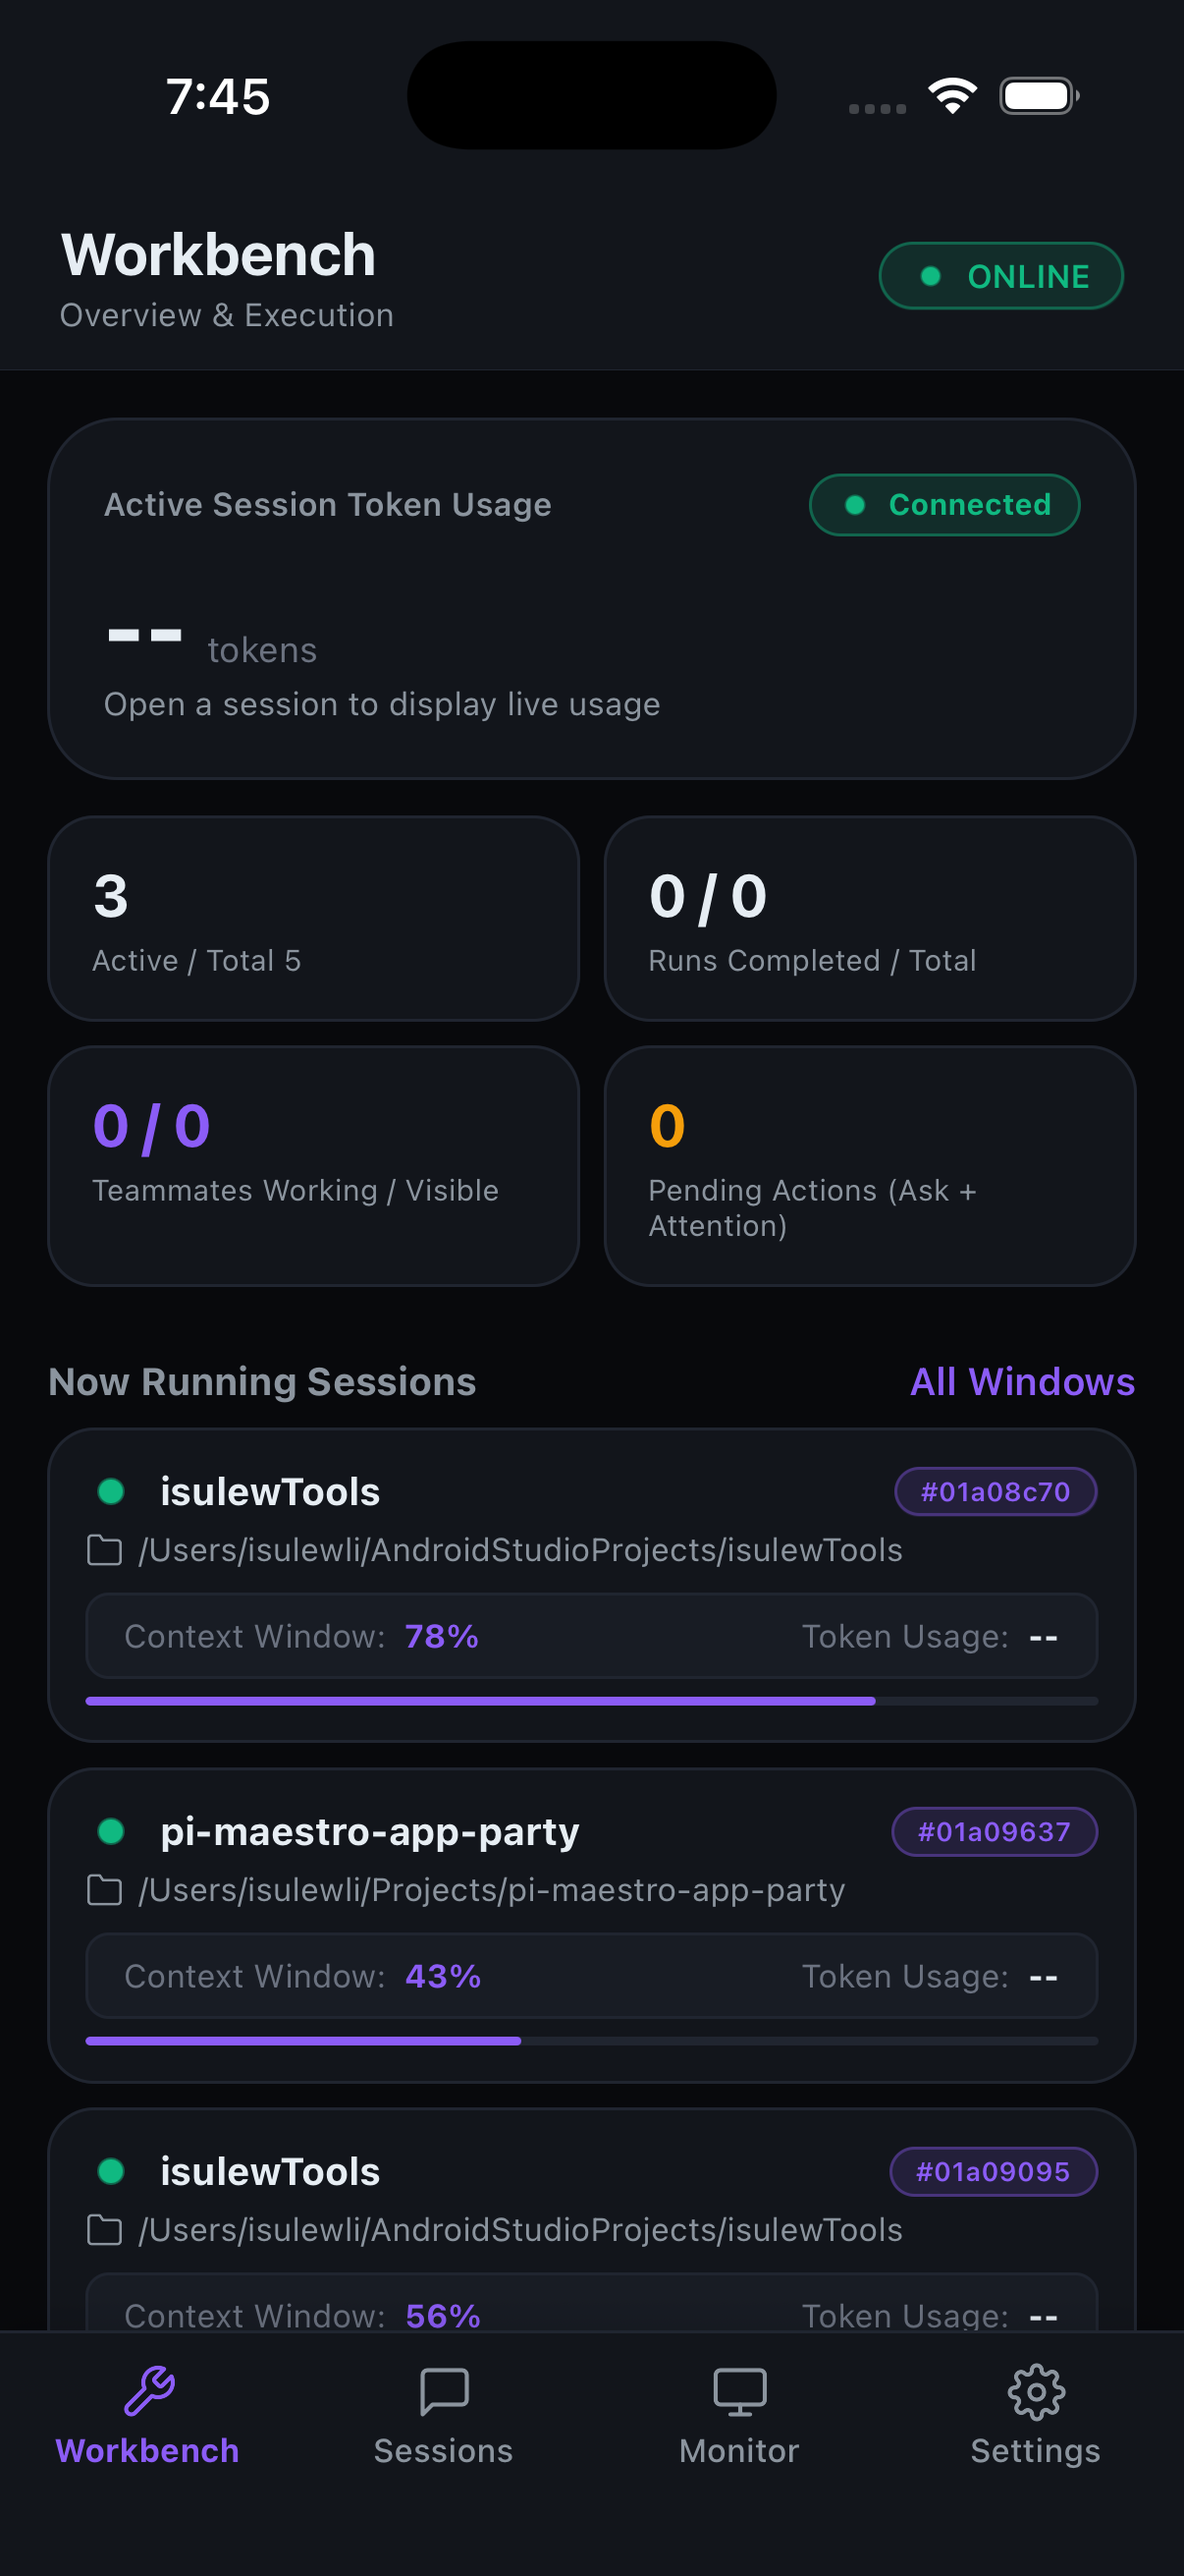
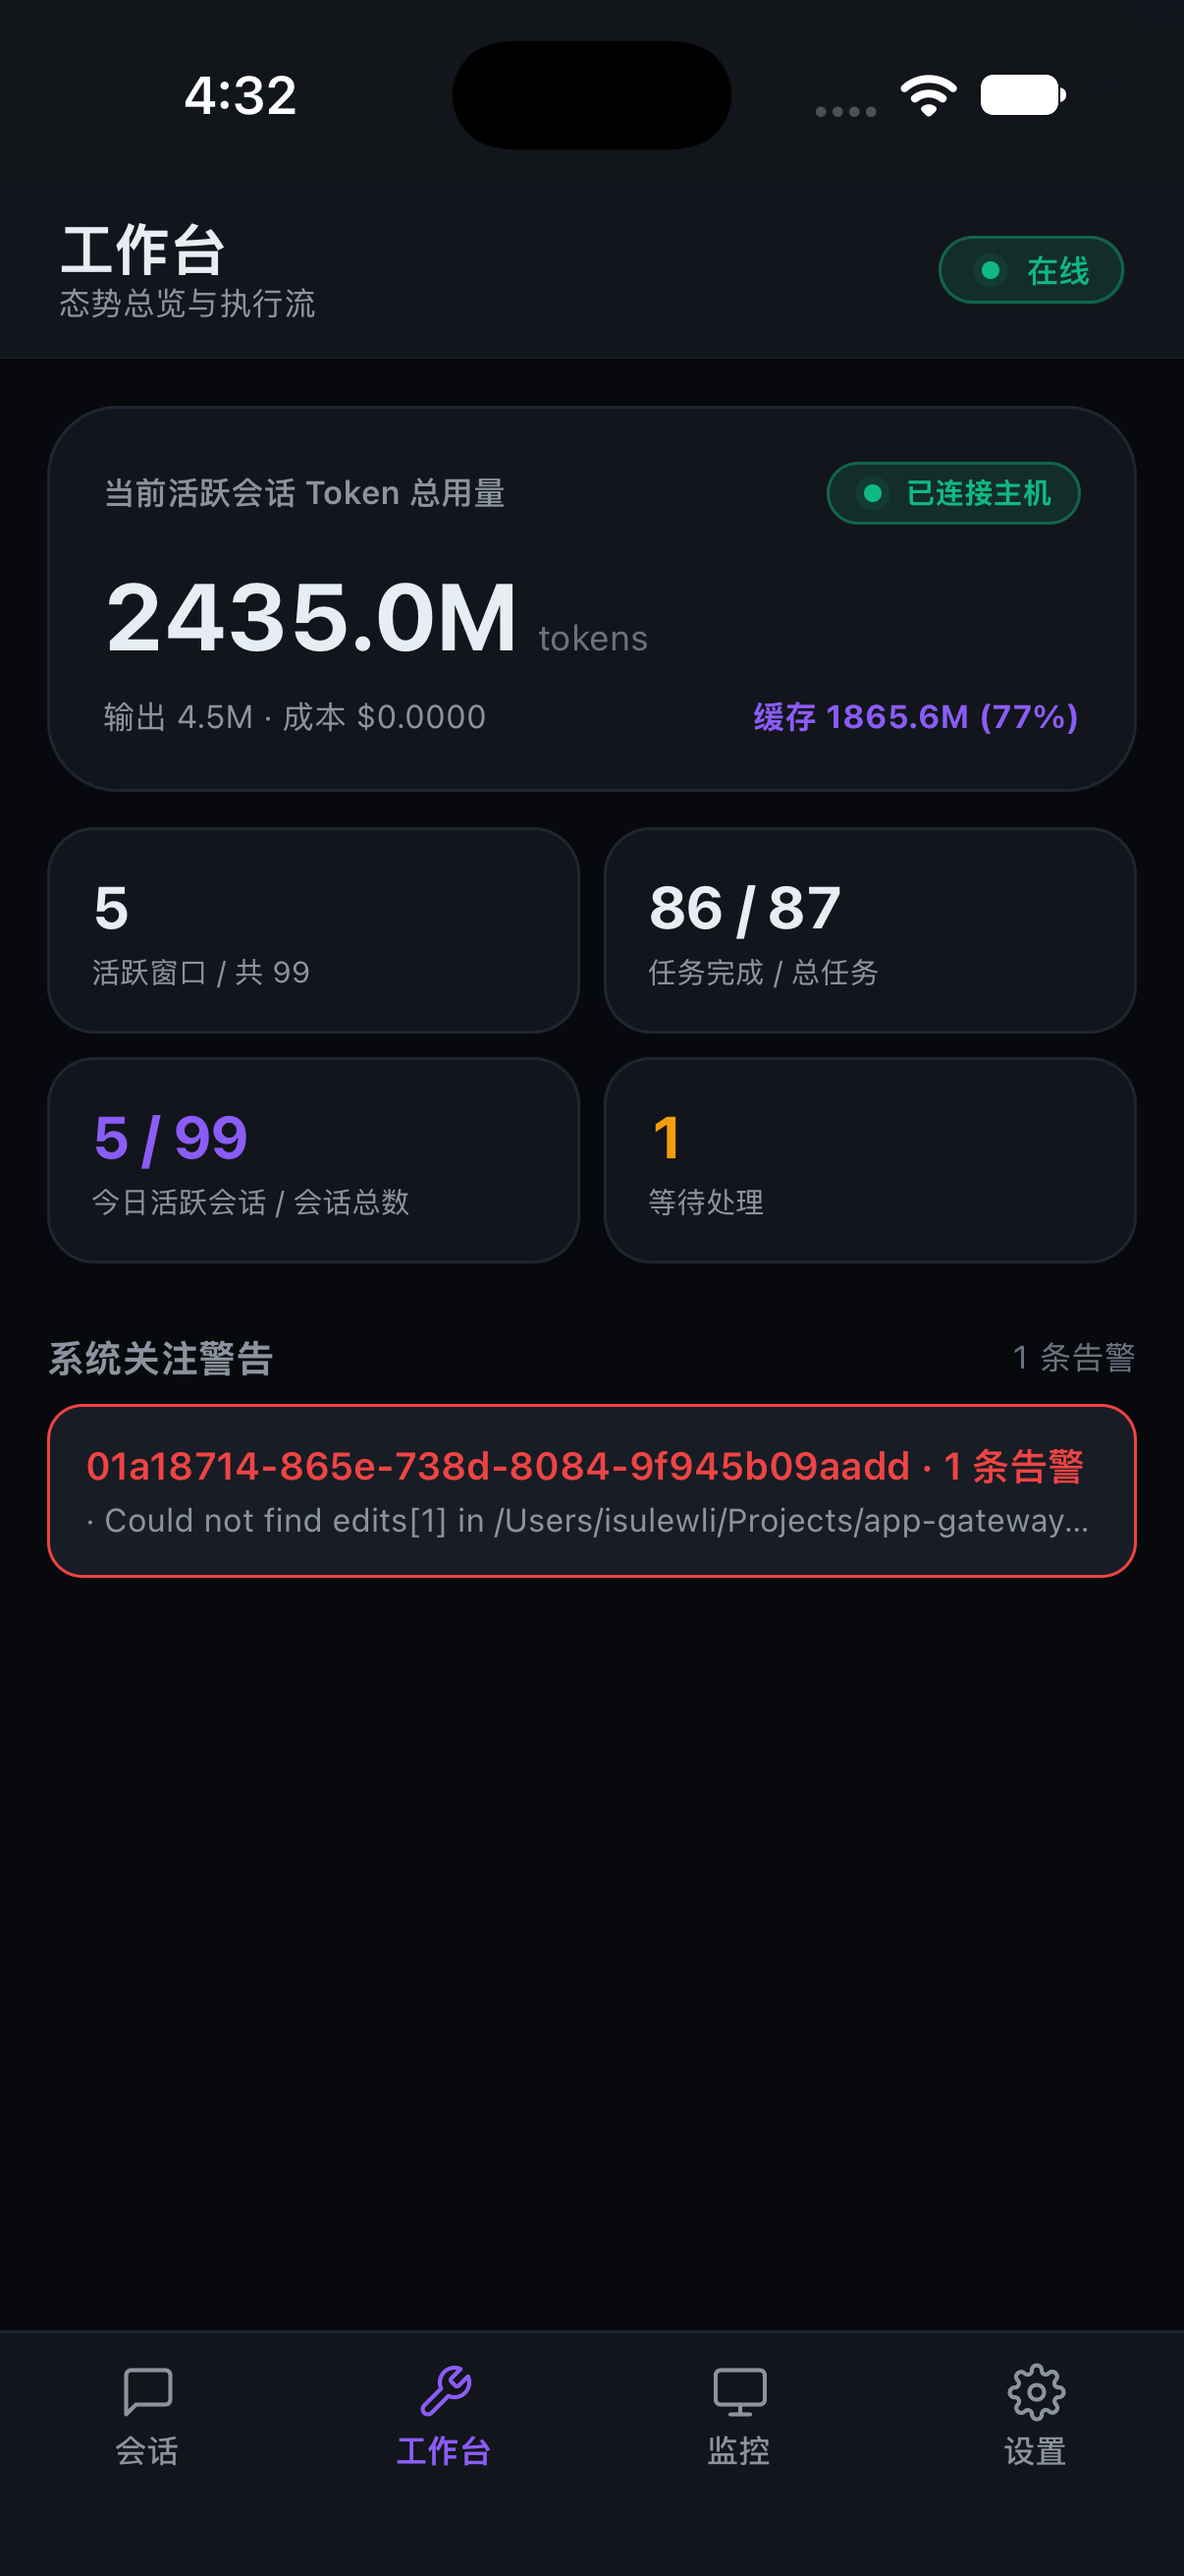
docs: 更新双语 README、使用指南与 v0.19 高清截图
- 同步中英文 README：补充可折叠悬浮状态栏、流式中 Follow-up、执行状态抽屉（Goal 指标与 Todo 明细）、Herdr 远程会话新建/管理、Ask/Plan 胶囊化与 Review & Refine 面板
- 命令表补充 /maestro-mobile manager-fav 常用工作目录管理
- 替换并新增真机模拟器高清截图（1206x2622）：工作台态势（ios-launched.png）、会话列表新建入口（ios-sessions.png）、会话详情与悬浮控制（ios-chat.png）、执行状态抽屉明细（ios-execution-drawer.png）、远程新建会话页（ios-launch-session.png）
- 更新 docs/usage.md 桌面命令表

diff --git a/README.md b/README.md
@@ -37,17 +37,20 @@
 Maestro Mobile is an iOS / Android companion for [Pi](https://github.com/badlogic/pi-mono). Your sessions run on your computer; the app connects through a local Host service to show progress and control authorized live sessions.
 
 <p align="center">
-  <a href="docs/images/screenshots/ios-launched.png"><img src="docs/images/screenshots/ios-launched.png" width="220" alt="Workbench: usage, tasks and pending actions" /></a>
-  <a href="docs/images/screenshots/ios-sessions.png"><img src="docs/images/screenshots/ios-sessions.png" width="220" alt="Sessions: browse and filter Pi sessions" /></a>
-  <a href="docs/images/screenshots/ios-chat.png"><img src="docs/images/screenshots/ios-chat.png" width="220" alt="Chat: messages, history and tool output" /></a>
+  <a href="docs/images/screenshots/ios-launched.png"><img src="docs/images/screenshots/ios-launched.png" width="180" alt="Workbench: usage, tasks and pending actions" /></a>
+  <a href="docs/images/screenshots/ios-sessions.png"><img src="docs/images/screenshots/ios-sessions.png" width="180" alt="Sessions: browse and launch Pi sessions" /></a>
+  <a href="docs/images/screenshots/ios-chat.png"><img src="docs/images/screenshots/ios-chat.png" width="180" alt="Chat: messages, floating toolbar and follow-up" /></a>
+  <a href="docs/images/screenshots/ios-execution-drawer.png"><img src="docs/images/screenshots/ios-execution-drawer.png" width="180" alt="Execution drawer: Goal metrics and Todo breakdown" /></a>
 </p>
 
-- **Stay informed:** browse sessions, search history, and check usage, tasks and teammates.
-- **Keep working:** send text or images, steer a running turn, queue a follow-up, switch models or stop a task.
-- **Make decisions:** answer Ask questions and review Plans from the app when the desktop session has compatible `pi-maestro-flow` loaded.
-- **Stay connected:** pair with a QR code or short code, reconnect automatically, and receive task notifications.
+- **Stay informed:** browse sessions, search history, and inspect real-time usage, active tasks, teammates and execution progress.
+- **Keep working:** send text or images, steer running turns, queue follow-ups while streaming, adjust thinking levels, switch models with collapsible floating controls, or stop long-running tasks.
+- **Track execution:** inspect the execution drawer for Goal metrics (progress, tokens, duration), Loop cycles, and step-by-step Todo breakdowns with duration bars and summary notes.
+- **Make decisions:** answer Ask questions and review Plans from your phone; minimize dialogs to floating pills to check session context before answering, or optimize plans with the native Review & Refine panel.
+- **Remote session control:** launch independent desktop Pi sessions via Herdr directly from your phone with runtime and workspace directory selection, or gracefully close sessions remotely.
+- **Stay connected:** pair with a QR code or short code, reconnect automatically, and receive task completion notifications.
 
-Available actions depend on the desktop session's permissions and capabilities. Historical sessions are read-only; new Pi sessions start on the desktop. Docker deployments provide a read-only dashboard.
+Available actions depend on the desktop session's permissions and capabilities. Historical sessions are read-only; new Pi sessions can be launched remotely when Herdr is available. Docker deployments provide a read-only dashboard.
 
 ## Getting started
 
@@ -76,6 +79,8 @@ Enable the installed extensions, including the Mobile Desktop Plugin, through `p
 /maestro-mobile start
 /maestro-mobile qr
 ```
+
+To manage and favorite workspace directories for launching sessions from Mobile, use `/maestro-mobile manager-fav` in your desktop TUI.
 
 ### 2. Install the app
 
@@ -120,6 +125,7 @@ Use **Workbench** for progress, **Sessions** for conversations, and **Monitor** 
 | --- | --- |
 | `/maestro-mobile status` | Check Host status and detected versions. |
 | `/maestro-mobile status --current` | Diagnose the current desktop connection. |
+| `/maestro-mobile manager-fav` | Manage and favorite workspace directories for mobile session launch. |
 | `/maestro-mobile stop` | Stop the extension-managed Host. |
 | `/maestro-mobile notify` | Configure notification providers and events. |
 

diff --git a/README.zh-CN.md b/README.zh-CN.md
@@ -39,17 +39,20 @@
 Maestro Mobile 是 [Pi](https://github.com/badlogic/pi-mono) 的 iOS / Android 配套 App。会话继续在电脑上运行，手机通过本地 Host 服务查看进度，并操作已授权的运行中会话。
 
 <p align="center">
-  <a href="docs/images/screenshots/ios-launched.png"><img src="docs/images/screenshots/ios-launched.png" width="220" alt="Workbench：使用量、任务与待处理事项" /></a>
-  <a href="docs/images/screenshots/ios-sessions.png"><img src="docs/images/screenshots/ios-sessions.png" width="220" alt="Sessions：浏览与筛选 Pi 会话" /></a>
-  <a href="docs/images/screenshots/ios-chat.png"><img src="docs/images/screenshots/ios-chat.png" width="220" alt="Chat：消息、历史与工具输出" /></a>
+  <a href="docs/images/screenshots/ios-launched.png"><img src="docs/images/screenshots/ios-launched.png" width="180" alt="Workbench：使用量、任务与待处理事项" /></a>
+  <a href="docs/images/screenshots/ios-sessions.png"><img src="docs/images/screenshots/ios-sessions.png" width="180" alt="Sessions：浏览与新建 Pi 会话" /></a>
+  <a href="docs/images/screenshots/ios-chat.png"><img src="docs/images/screenshots/ios-chat.png" width="180" alt="Chat：消息、悬浮状态栏与后续发送" /></a>
+  <a href="docs/images/screenshots/ios-execution-drawer.png"><img src="docs/images/screenshots/ios-execution-drawer.png" width="180" alt="执行状态抽屉：Goal 指标与 Todo 明细" /></a>
 </p>
 
-- **跟进进度**：浏览会话、搜索历史，查看使用量、任务与 Teammate 状态。
-- **继续工作**：发送文本或图片，介入当前轮次、追加后续消息、切换模型或停止任务。
-- **处理决策**：目标桌面会话加载兼容的 `pi-maestro-flow` 后，可在手机回答 Ask、审阅 Plan。
-- **保持连接**：支持二维码或短码配对、断线自动重连和任务通知。
+- **跟进进度**：浏览会话、搜索历史，查看实时使用量、活跃任务、子代理与执行进度。
+- **继续工作**：发送文本或图片，介入当前轮次，流式中排队后续消息，调整思考等级，通过可折叠悬浮状态栏切换模型，或停止长任务。
+- **跟踪执行**：展开执行状态抽屉，查看 Goal 指标（进度、Token、耗时）、Loop 循环轮次，以及带耗时柱状条与 Summary 小字的逐条 Todo 明细。
+- **处理决策**：在手机上回答 Ask、审阅 Plan；可将弹窗最小化为悬浮胶囊以便先查阅会话上下文，也可使用原生 Review & Refine 面板优化计划。
+- **远程会话管理**：通过 Herdr 直接在手机上选择运行时与工作目录，启动独立的桌面 Pi 会话，或远程优雅结束会话。
+- **保持连接**：支持二维码或短码配对、断线自动重连和任务完成通知。
 
-可用操作取决于桌面会话的权限与能力。历史会话只读，新 Pi 会话需从桌面启动；Docker 部署提供只读看板。
+可用操作取决于桌面会话的权限与能力。历史会话只读；主机可用 Herdr 时可直接远程新建 Pi 会话；Docker 部署提供只读看板。
 
 <a id="getting-started"></a>
 
@@ -80,6 +83,8 @@ pi install npm:pi-maestro-flow
 /maestro-mobile start
 /maestro-mobile qr
 ```
+
+如需维护手机端新建会话的常用工作目录，可在桌面 TUI 执行 `/maestro-mobile manager-fav`。
 
 ### 2. 安装 App
 
@@ -127,6 +132,7 @@ App 会保存连接并自动重连。默认地址为 `ws://<computer-ip>:4739/ws
 | --- | --- |
 | `/maestro-mobile status` | 查看 Host 状态与探测到的版本。 |
 | `/maestro-mobile status --current` | 诊断当前桌面连接。 |
+| `/maestro-mobile manager-fav` | 在桌面 TUI 中维护和收藏常用工作目录，供手机端新建会话使用。 |
 | `/maestro-mobile stop` | 停止扩展管理的 Host。 |
 | `/maestro-mobile notify` | 配置通知 Provider 与事件。 |
 

diff --git a/docs/usage.md b/docs/usage.md
@@ -60,6 +60,7 @@ Camera, photo-library and notification permissions support QR pairing, image pro
 | `/maestro-mobile start` | Start the Host in the background; skip startup if it is already running. |
 | `/maestro-mobile status` | Show Host status, port and detected Pi / Flow / CLI versions. |
 | `/maestro-mobile status --current` | Compare the current Pi, Plugin, Broker and Host connection. |
+| `/maestro-mobile manager-fav` | Manage and favorite workspace directories for mobile session launch. |
 | `/maestro-mobile qr` | Show the QR code, short code and candidate addresses. |
 | `/maestro-mobile stop` | Stop the extension-managed Host. |
 | `/maestro-mobile notify` | Configure notification providers and events. |
